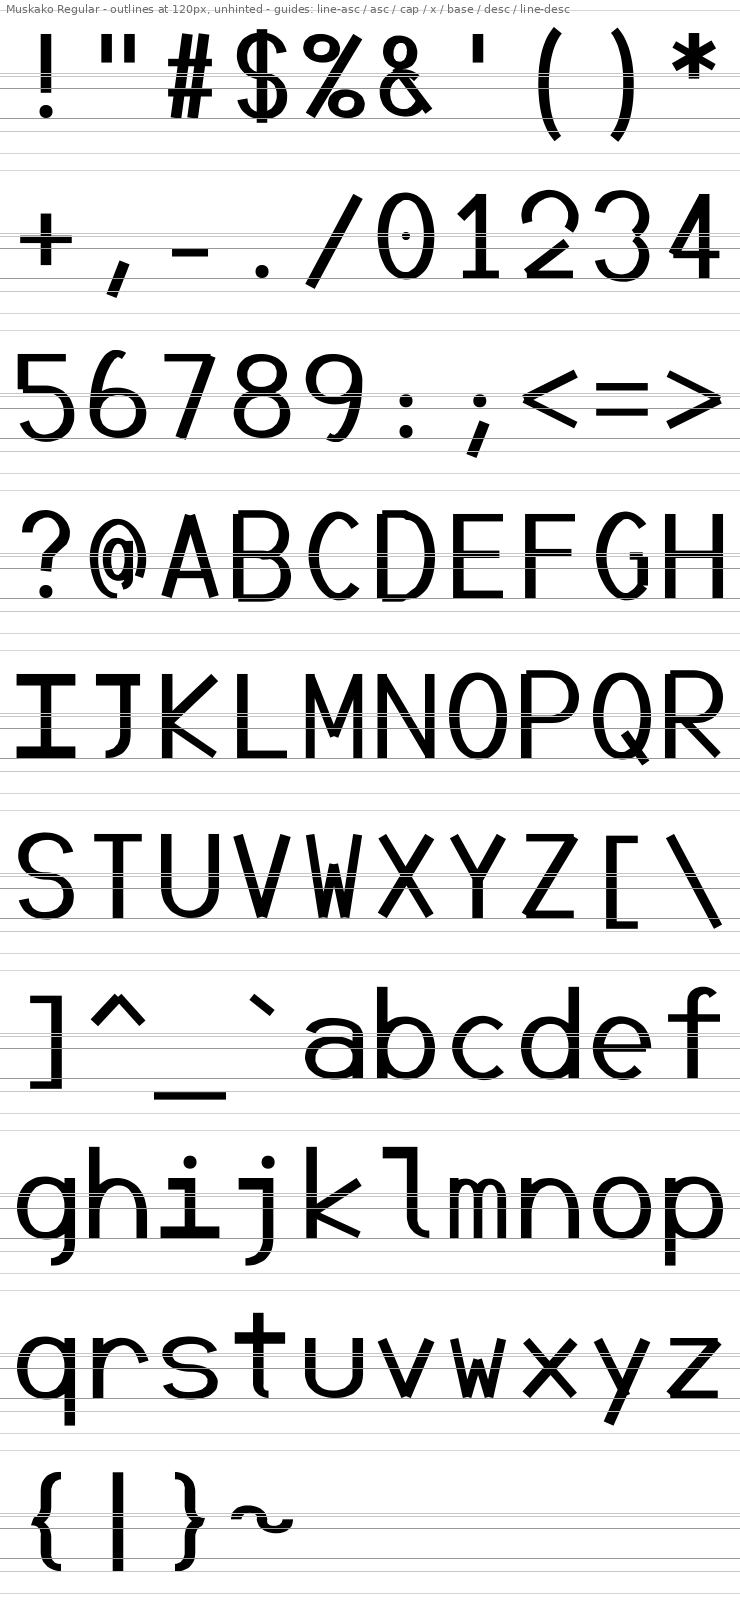
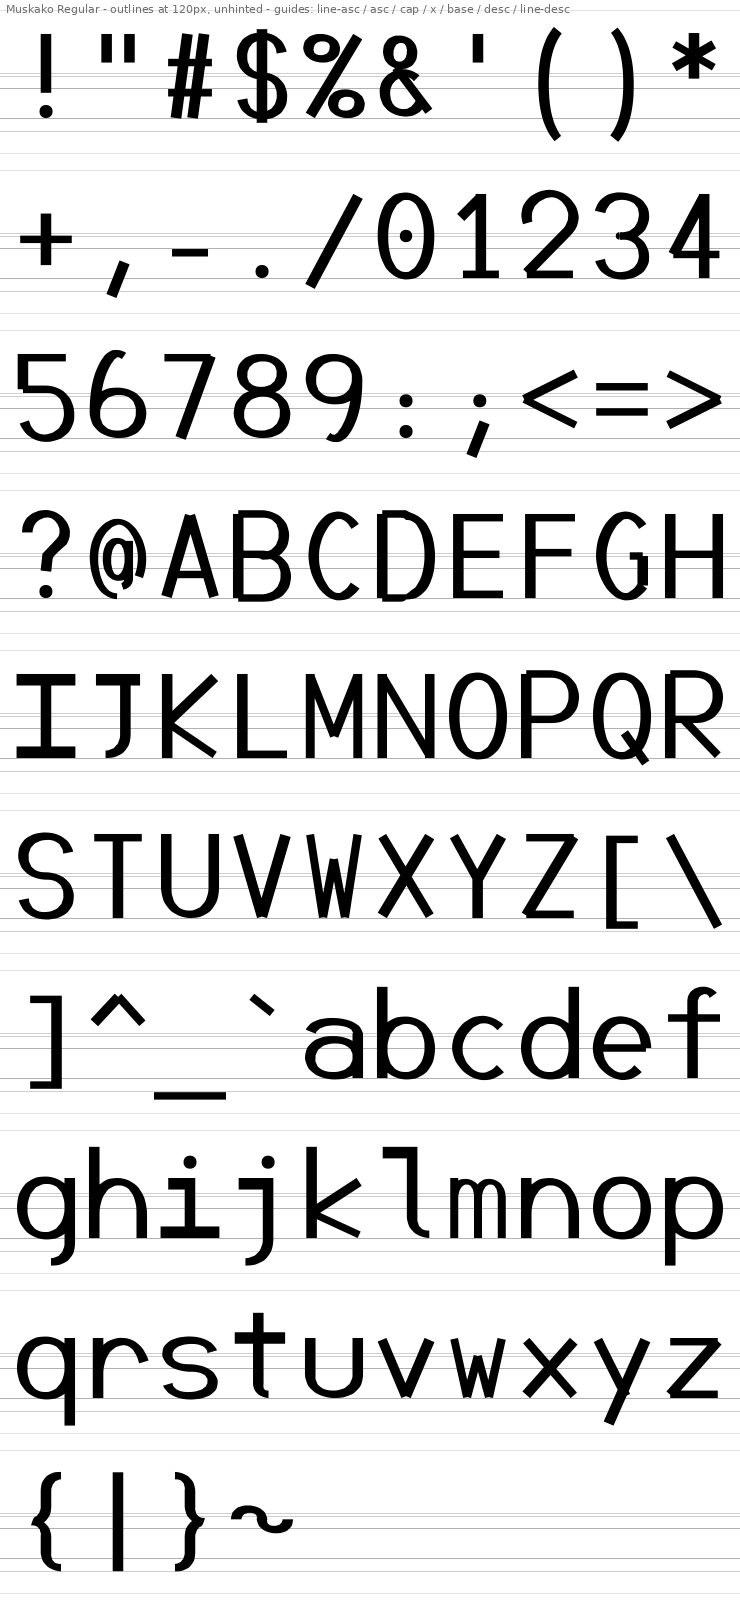
Make install regenerate the proofs, and layer guides under the ink
The review was right and the cause was the build graph, not an
oversight.  install and proof were SIBLINGS off hint, so make install
rebuilt the fonts and never touched the sheets.  After c311719 the
fonts and hinting.png were current while letters, sizes, grade,
terminal, boxes, box-grid and braille were seven minutes stale -- still
showing the old 2, 3, m, w and zero.  I had been judging the revisions
from ad-hoc spot renders while the committed proofs showed what they
replaced.

install now depends on proof, so the sheets cannot lag the font they
claim to show.

The letters sheet drew its metric guides OVER the glyphs, cutting a
line through every letter at seven heights per row.  Guides now go on
the ground first and the ink composites on top, which is the order they
should always have been in.

Scratch renders (proof/spot.png, proof/small.png) are ignored rather
than committed; they were never part of the set.

diff --git a/build/proofsheet.py b/build/proofsheet.py
@@ -92,13 +92,18 @@ def sheet_letters(px=120, cols=10):
         bases.append(base)
         draw_run(cov, f, "".join(chars[r * cols:(r + 1) * cols]), 10, base,
                  hinted=False)
-    img = finish(cov, dark=False)
+    # Guides go UNDER the ink: draw them on the ground first, then
+    # composite the glyphs on top through the coverage mask.  Drawn
+    # over, they cut through every letter and fight the thing the sheet
+    # exists to show.
+    img = Image.new("L", cov.size, 255)
     d = ImageDraw.Draw(img)
     for base in bases:
-        for y, grey in ((f.size.ascender / 64, 214), (760 * k, 198),
-                        (700 * k, 198), (500 * k, 152), (0, 152),
-                        (-230 * k, 198), (f.size.descender / 64, 214)):
+        for y, grey in ((f.size.ascender / 64, 226), (760 * k, 206),
+                        (700 * k, 206), (500 * k, 176), (0, 176),
+                        (-230 * k, 206), (f.size.descender / 64, 226)):
             d.line([(0, base - y), (img.width, base - y)], fill=grey)
+    img.paste(0, (0, 0), cov)
     tag(img, (6, 2), f"Muskako Regular - outlines at {px}px, unhinted - "
                      "guides: line-asc / asc / cap / x / base / desc / line-desc",
         dark=False)
